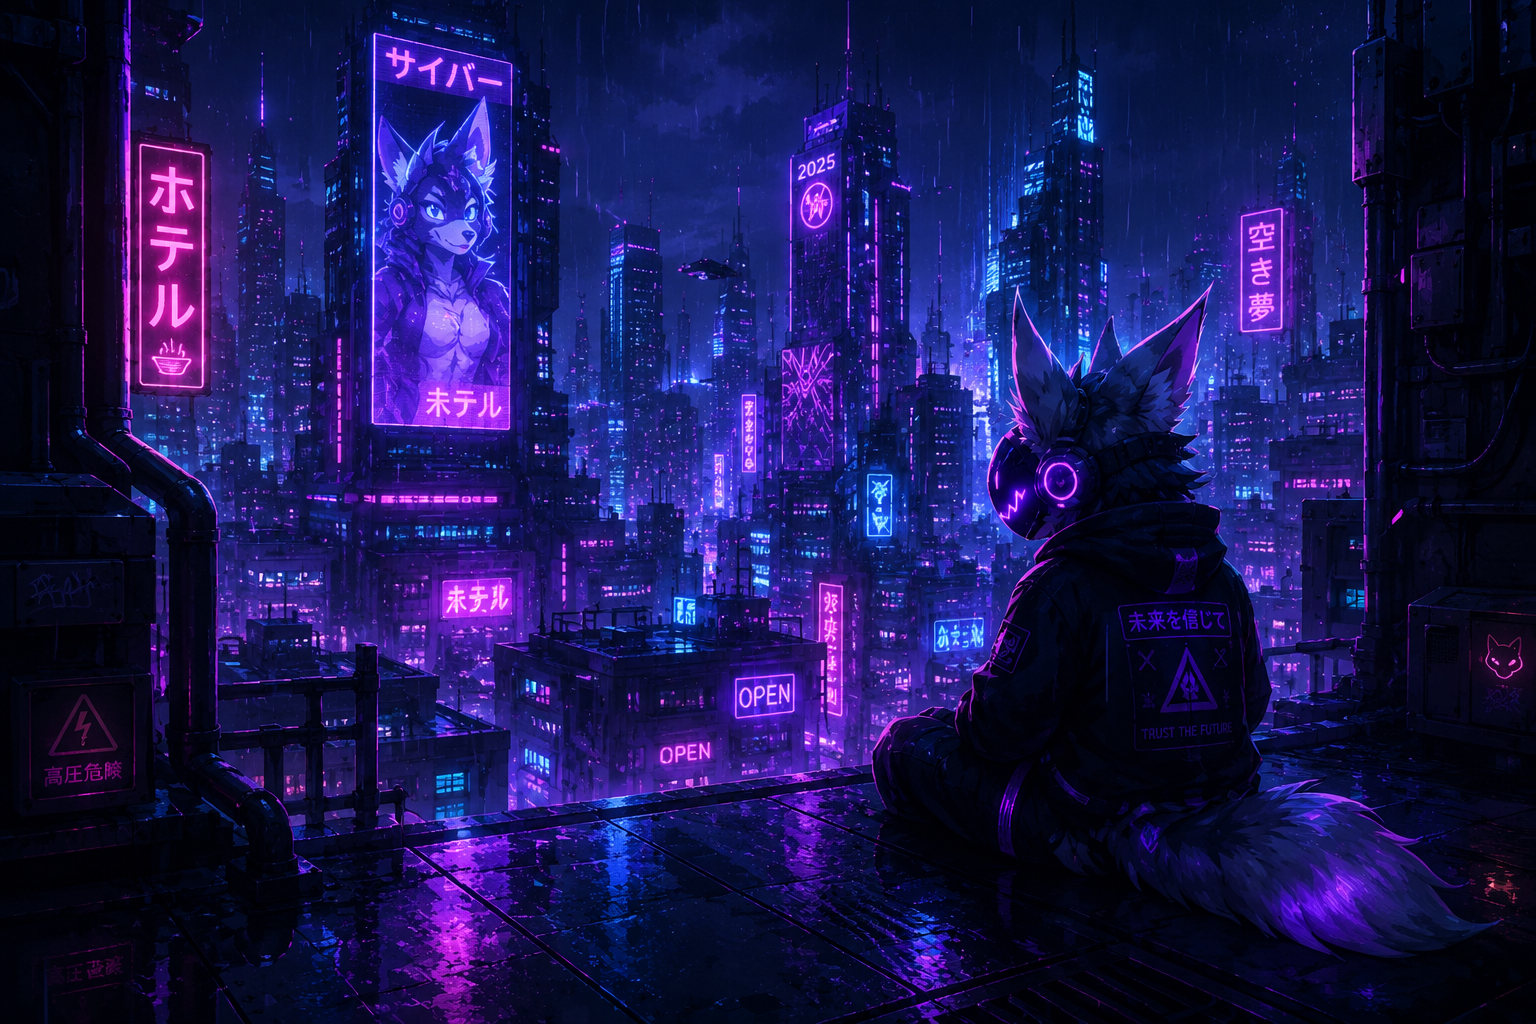
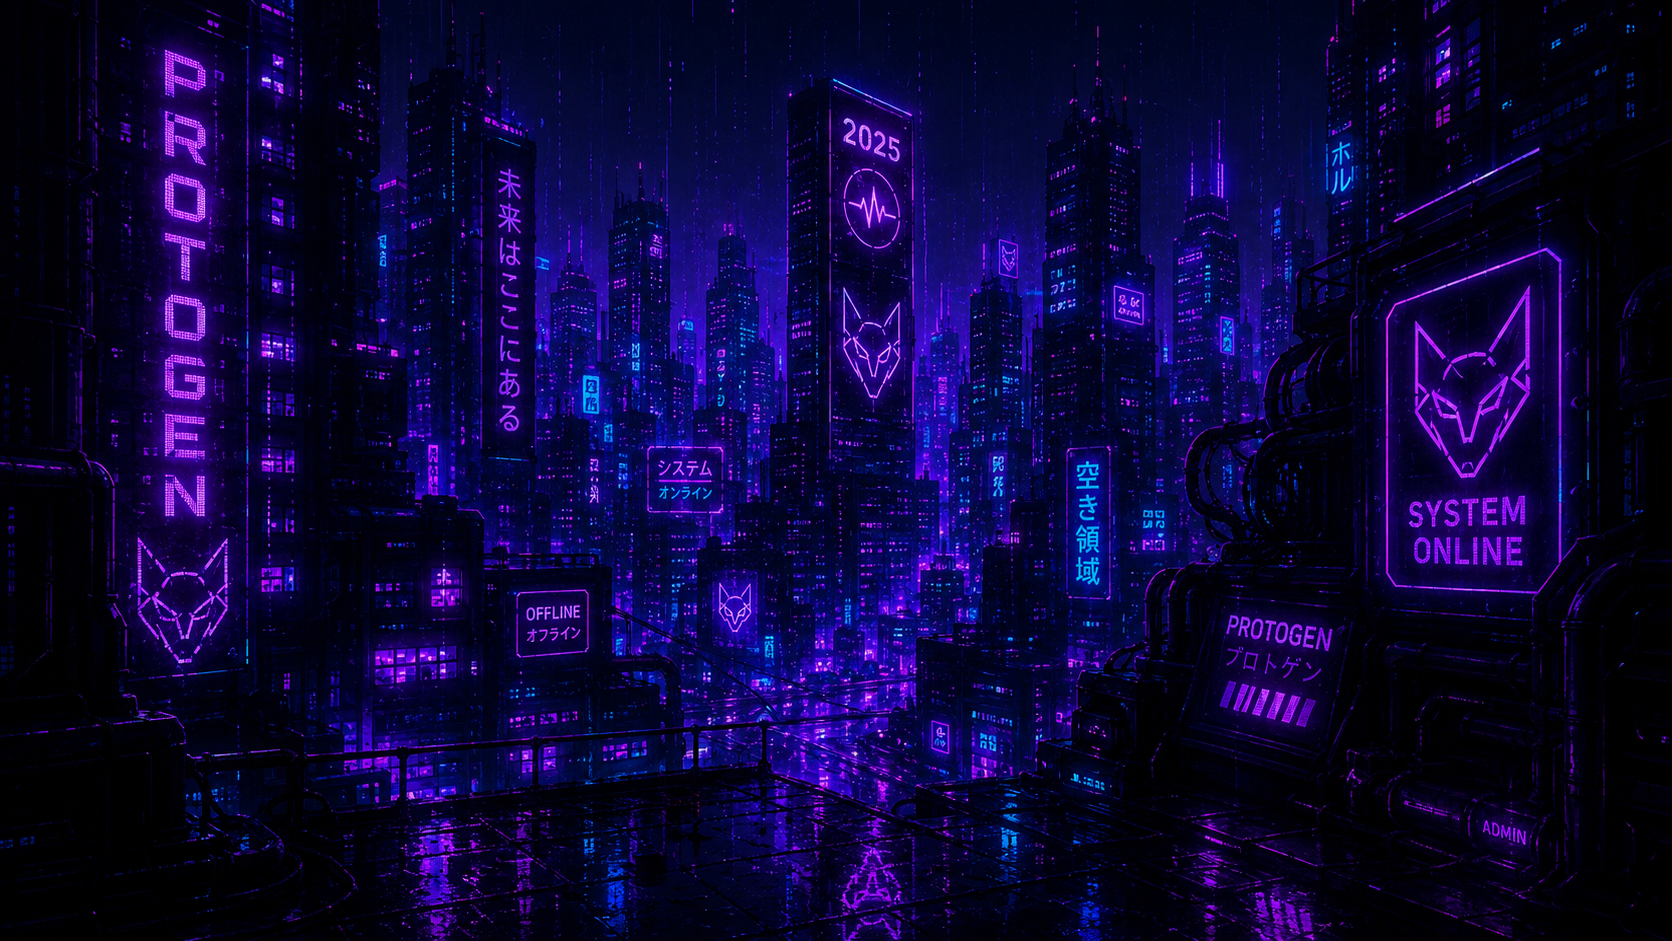
Add files via upload

diff --git a/static/statistics.css b/static/statistics.css
@@ -1,1 +1,64 @@
-.stats-page{padding:34px 28px 24px}.stats-hero{display:flex;justify-content:space-between;align-items:flex-end;margin-bottom:24px}.stats-hero h1{margin:6px 0;font-size:36px}.stats-hero p{margin:0;color:#789092;font-size:12px}.stats-cards{display:grid;grid-template-columns:repeat(4,1fr);gap:10px;margin-bottom:12px}.stats-cards article{min-height:120px;padding:17px;border:1px solid rgba(0,255,225,.13);border-radius:15px;background:rgba(3,15,19,.84);display:flex;flex-direction:column;justify-content:space-between}.stats-cards span{font-size:20px}.stats-cards small{color:#698283;font-size:9px}.stats-cards b{font-size:29px;color:#e9ffff}.stats-cards em{font-style:normal;color:#456263;font-size:8px}.stats-two{display:grid;grid-template-columns:1.5fr 1fr;gap:12px;margin-bottom:12px}.stat-panel{min-height:330px}.hint{font-size:8px;color:#587172}.bars{height:245px;display:flex;align-items:end;gap:9px;padding:18px 4px 0}.bar-item{height:100%;flex:1;display:flex;flex-direction:column;justify-content:end;align-items:center;gap:6px;color:#5d7778;font-size:8px}.bar-item strong{font-size:8px;color:#a0b9ba}.bar-bg{height:195px;width:100%;max-width:38px;background:rgba(255,255,255,.025);border-radius:7px 7px 2px 2px;display:flex;align-items:end;overflow:hidden}.bar-bg i{width:100%;min-height:5px;border-radius:7px 7px 0 0;background:#00d9c7;box-shadow:0 0 18px rgba(0,255,225,.2)}.mod-line{display:flex;justify-content:space-between;padding:17px 0 7px;color:#8ca7a8;font-size:10px}.mod-line b{color:#e2f5f5}.progress{height:6px;background:rgba(255,255,255,.04);border-radius:5px;overflow:hidden}.progress i{display:block;height:100%;background:#00d9c7;border-radius:5px}.top-user{display:grid;grid-template-columns:25px 35px 1fr 80px;gap:10px;align-items:center;padding:10px 3px;border-top:1px solid rgba(255,255,255,.045)}.rank{font-size:9px;color:#526b6c;text-align:center}.avatar-letter{width:34px;height:34px;display:grid;place-items:center;border-radius:10px;background:#081a1e;border:1px solid rgba(0,255,225,.18);color:#00e8d2;font-size:11px;font-weight:800}.top-user strong{display:block;font-size:10px;white-space:nowrap;overflow:hidden;text-overflow:ellipsis}.top-user small{color:#50696a;font-size:8px}.top-user>b{text-align:right;font-size:10px;color:#b7cece}.top-user>b small{font-size:7px}.insight{display:flex;justify-content:space-between;padding:18px 0;border-bottom:1px solid rgba(255,255,255,.045);font-size:10px;color:#708889}.insight b{color:#d9eeee;font-size:12px}.insight .ok{color:#49e3bb;font-size:9px;letter-spacing:1px}.empty{text-align:center;padding:65px 10px;color:#587273;font-size:10px}.error-box{margin:30px;padding:15px;border:1px solid rgba(255,70,100,.3);border-radius:12px;color:#ff9eae;background:rgba(100,20,35,.2)}@media(max-width:900px){.stats-cards{grid-template-columns:1fr 1fr}.stats-two{grid-template-columns:1fr}}@media(max-width:650px){.stats-page{padding:22px 14px}.stats-hero{align-items:flex-start;gap:15px;flex-direction:column}.stats-cards{grid-template-columns:1fr 1fr}.bars{gap:4px}.bar-item:nth-child(-n+3){display:none}}
+/* Protogen Analytics — redesigned statistics */
+.stats-page{padding:26px 28px 24px}
+.stats-hero{min-height:142px;padding:28px 30px;margin-bottom:14px;display:flex;align-items:flex-end;justify-content:space-between;gap:20px;border:1px solid rgba(0,255,225,.16);border-radius:16px;background:linear-gradient(90deg,rgba(2,8,18,.88),rgba(4,8,18,.55)),url("/static/bg.png") center/cover;position:relative;overflow:hidden;box-shadow:0 18px 45px rgba(0,0,0,.25)}
+.stats-hero:after{content:"";position:absolute;left:0;right:0;bottom:0;height:1px;background:linear-gradient(90deg,transparent,#00ffe1,#a84cff,transparent)}
+.stats-hero h1{margin:7px 0 5px;font-size:36px;letter-spacing:-1px}
+.stats-hero p{margin:0;color:#789092;font-size:12px}
+.stats-live{border:1px solid rgba(0,255,225,.2);background:rgba(0,255,225,.035);border-radius:999px;padding:10px 13px;color:#76ddd3;font-size:8px;letter-spacing:1.3px;white-space:nowrap}
+.stats-live i,.live-dot i{display:inline-block;width:6px;height:6px;border-radius:50%;background:#00ff9c;box-shadow:0 0 10px #00ff9c;margin-right:6px}
+.stats-live b{color:#00ffe1;margin-left:6px}
+
+.stats-cards{display:grid;grid-template-columns:repeat(6,1fr);gap:9px;margin-bottom:12px}
+.stat-card{min-height:112px;padding:14px;border-radius:13px;border:1px solid rgba(0,255,225,.13);background:linear-gradient(145deg,rgba(4,16,25,.91),rgba(2,9,18,.84));box-shadow:0 12px 30px rgba(0,0,0,.2);display:flex;flex-direction:column;justify-content:space-between}
+.metric-icon{width:34px;height:34px;display:grid;place-items:center;border-radius:10px;background:rgba(0,255,225,.055);border:1px solid rgba(0,255,225,.12);color:#00ffe1;font-size:18px}
+.stat-card.purple .metric-icon{color:#b85cff;border-color:rgba(184,92,255,.2);background:rgba(156,69,255,.08)}
+.stat-card.pink .metric-icon{color:#ff4f91;border-color:rgba(255,79,145,.2);background:rgba(255,79,145,.07)}
+.stat-card small{font-size:8px;color:#799091;letter-spacing:.4px}
+.stat-card strong{font-size:25px;line-height:1;color:#ecffff}
+.stat-card strong.uptime{font-size:19px}
+.stat-card em{font-style:normal;font-size:7px;color:#476364}
+
+.stats-grid{display:grid;gap:12px;margin-bottom:12px}
+.top-grid{grid-template-columns:1.45fr 1fr}
+.middle-grid{grid-template-columns:1.35fr 1fr}
+.bottom-grid{grid-template-columns:1.3fr 1fr}
+.panel{border:1px solid rgba(0,255,225,.13);border-radius:16px;background:linear-gradient(145deg,rgba(4,15,24,.91),rgba(2,8,16,.86));box-shadow:0 16px 45px rgba(0,0,0,.24);padding:19px;overflow:hidden}
+.panel h2{font-size:17px;margin:5px 0 0;color:#e8ffff}
+.panel-head{display:flex;align-items:center;justify-content:space-between;gap:12px}
+.panel-head a{color:#a952ff;text-decoration:none;font-size:10px}.panel-head a:hover{color:#00ffe1}
+.panel-kicker{font-size:8px;letter-spacing:2px;color:#00ffe1;font-weight:900}
+.select-like{padding:7px 10px;border:1px solid rgba(255,255,255,.08);border-radius:8px;color:#819596;font-size:8px;background:rgba(255,255,255,.02)}
+.muted{font-size:8px;color:#536c6d}.live-dot{font-size:8px;color:#53dfc0;letter-spacing:1px}
+
+.chart-panel{min-height:285px}
+.chart-bars{height:210px;display:flex;align-items:end;gap:11px;padding:18px 7px 0}
+.chart-bar{height:100%;flex:1;display:flex;flex-direction:column;align-items:center;justify-content:end;gap:6px;color:#5c7778;font-size:8px}
+.chart-bar>b{font-size:8px;color:#9fb9ba}
+.bar-track{height:170px;width:100%;max-width:42px;border-radius:7px 7px 2px 2px;background:rgba(255,255,255,.022);display:flex;align-items:end;overflow:hidden}
+.bar-track i{display:block;width:100%;min-height:3px;border-radius:7px 7px 0 0;background:linear-gradient(180deg,#a74dff 0%,#7d3be8 48%,#00d9ce 100%);box-shadow:0 0 20px rgba(136,60,255,.22)}
+
+.moderation-panel{min-height:285px}
+.donut-row{display:flex;align-items:center;justify-content:center;gap:30px;min-height:205px}
+.donut{width:148px;height:148px;border-radius:50%;display:grid;place-items:center;position:relative;background:conic-gradient(#00d9ce 0 35%,#7d42ee 35% 65%,#c548ff 65% 82%,#ff4d88 82% 100%)}
+.donut:after{content:"";position:absolute;inset:16px;border-radius:50%;background:#06101a;border:1px solid rgba(0,255,225,.09)}
+.donut>div{position:relative;z-index:2;text-align:center}.donut b{display:block;font-size:25px;color:#ecffff}.donut span{font-size:8px;color:#637b7c}
+.legend{width:180px}.legend>div{display:grid;grid-template-columns:10px 1fr auto;align-items:center;gap:8px;padding:8px 0;border-bottom:1px solid rgba(255,255,255,.04);font-size:9px;color:#718889}.legend b{color:#d9eeee}.legend-dot{width:7px;height:7px;border-radius:50%;background:#00d9ce;box-shadow:0 0 8px rgba(0,255,225,.4)}.legend-dot.mute{background:#7d42ee}.legend-dot.ban{background:#ff4d88}.legend-dot.kick{background:#c548ff}
+.mini-empty{padding:14px;text-align:center;color:#536c6d;font-size:9px}
+
+.day-grid{display:grid;grid-template-columns:repeat(7,1fr);gap:7px;margin-top:22px}
+.day-cell{height:150px;display:flex;flex-direction:column;align-items:center;justify-content:end;gap:6px;font-size:8px;color:#637c7d}
+.day-cell i{width:100%;height:calc(18px + var(--x, 0px));max-height:112px;min-height:15px;border-radius:5px 5px 2px 2px;background:linear-gradient(180deg,#9c45ff,#00d9ce);box-shadow:0 0 16px rgba(0,255,225,.12);opacity:.5}
+.day-cell b{font-size:8px;color:#9bb5b6}
+
+.system-list{margin-top:12px}.system-list>div{display:flex;justify-content:space-between;align-items:center;padding:13px 3px;border-bottom:1px solid rgba(255,255,255,.045);font-size:9px;color:#72898a}.system-list>div:last-child{border-bottom:0}.system-list b{color:#00e0c2;font-size:9px;letter-spacing:.4px}
+
+.user-table{margin-top:12px}.user-row{display:grid;grid-template-columns:26px 38px 1fr auto;align-items:center;gap:9px;padding:9px 3px;border-top:1px solid rgba(255,255,255,.045)}
+.rank{text-align:center;color:#6e8586;font-size:9px}.user-avatar{width:34px;height:34px;display:grid;place-items:center;border-radius:10px;background:linear-gradient(145deg,rgba(156,69,255,.16),rgba(0,255,225,.05));border:1px solid rgba(0,255,225,.17);color:#00ffe1;font-weight:900;font-size:11px}
+.user-name{min-width:0}.user-name strong{display:block;font-size:10px;color:#e3f3f4;white-space:nowrap;overflow:hidden;text-overflow:ellipsis}.user-name small{display:block;color:#50696a;font-size:7px;margin-top:2px}.user-row>b{font-size:10px;color:#d5e9ea}.user-row>b small{font-size:7px;color:#536d6e;font-weight:400}
+
+.moderation-detail{min-height:260px}.mod-row{margin-top:14px}.mod-row>div:first-child{display:flex;justify-content:space-between;font-size:9px;color:#83999a}.mod-row b{color:#d9eeee}.mod-track{height:5px;margin-top:7px;background:rgba(255,255,255,.045);border-radius:5px;overflow:hidden}.mod-track i{display:block;height:100%;border-radius:5px;background:#00d9ce;box-shadow:0 0 10px rgba(0,255,225,.18)}.mod-track i.mute{background:#7d42ee}.mod-track i.ban{background:#ff4d88}.mod-track i.kick{background:#c548ff}
+footer{text-align:center;color:#334d4e;font-size:8px;letter-spacing:1.7px;padding:5px 0 20px}footer span{color:#4a7778}
+
+@media(max-width:1250px){.stats-cards{grid-template-columns:repeat(3,1fr)}.top-grid,.middle-grid,.bottom-grid{grid-template-columns:1fr}.stats-hero{min-height:130px}}
+@media(max-width:820px){.stats-page{padding:18px 15px}.stats-cards{grid-template-columns:repeat(2,1fr)}.stats-hero{padding:22px;align-items:flex-start;flex-direction:column}.stats-hero h1{font-size:30px}.stats-live{align-self:flex-start}.chart-bars{gap:5px}.donut-row{gap:15px}.donut{width:125px;height:125px}.legend{width:155px}}
+@media(max-width:520px){.stats-cards{grid-template-columns:1fr}.panel{padding:15px}.day-grid{gap:3px}.user-row{grid-template-columns:22px 34px 1fr auto}.donut-row{flex-direction:column}.legend{width:100%}}
